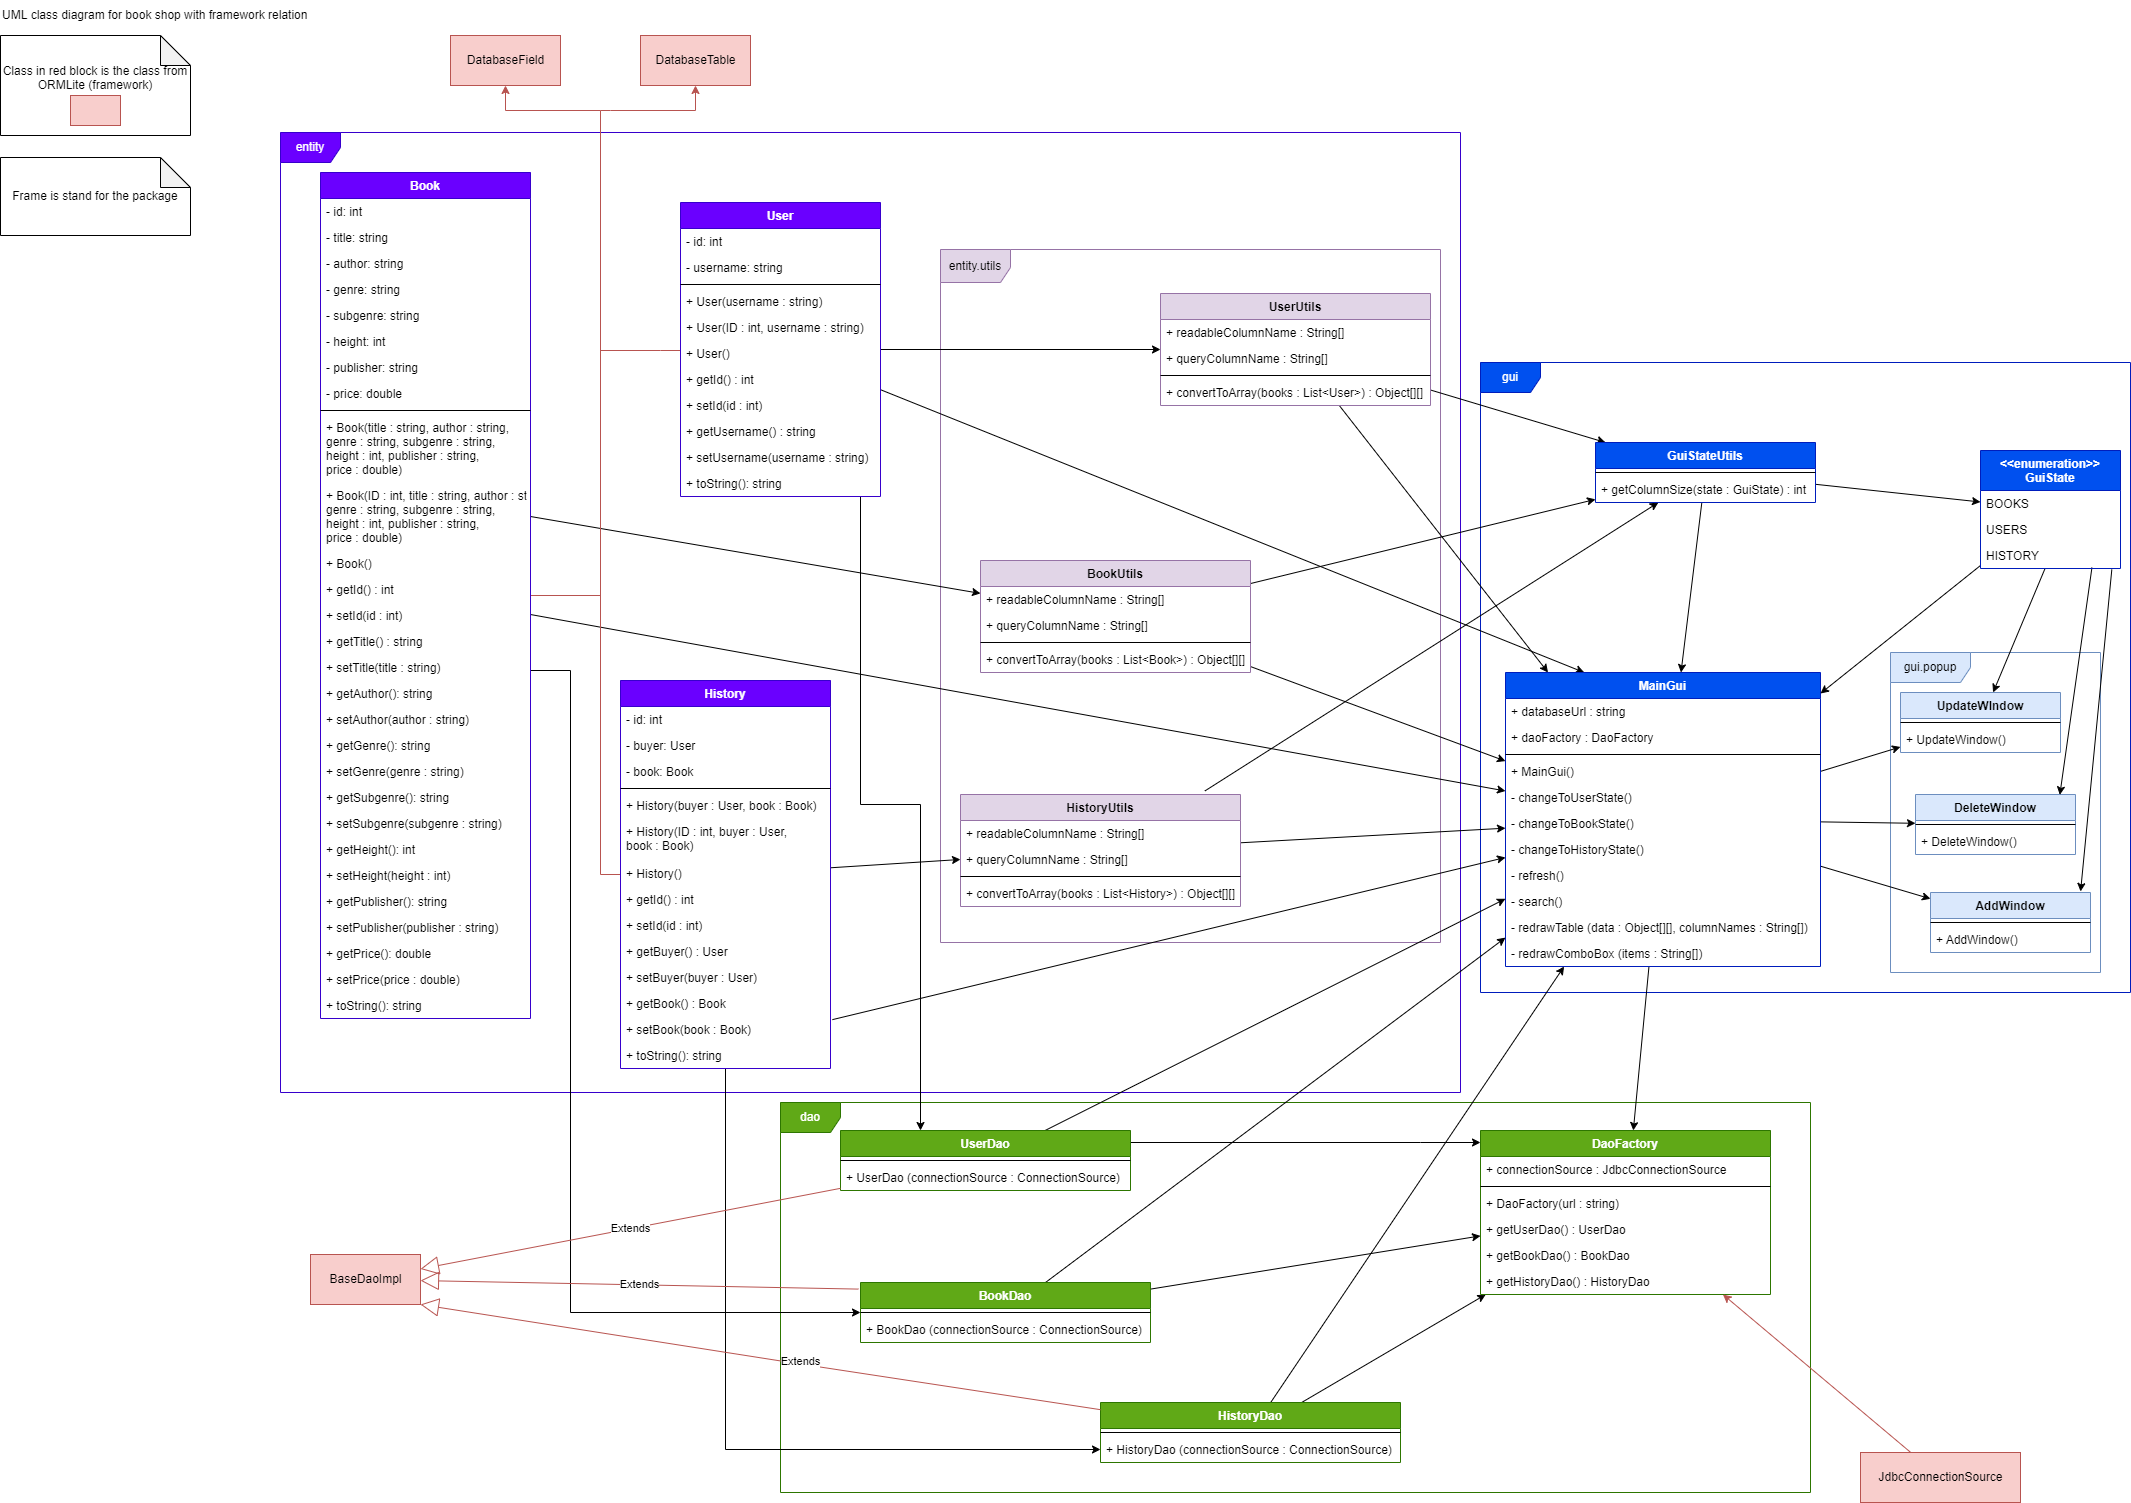
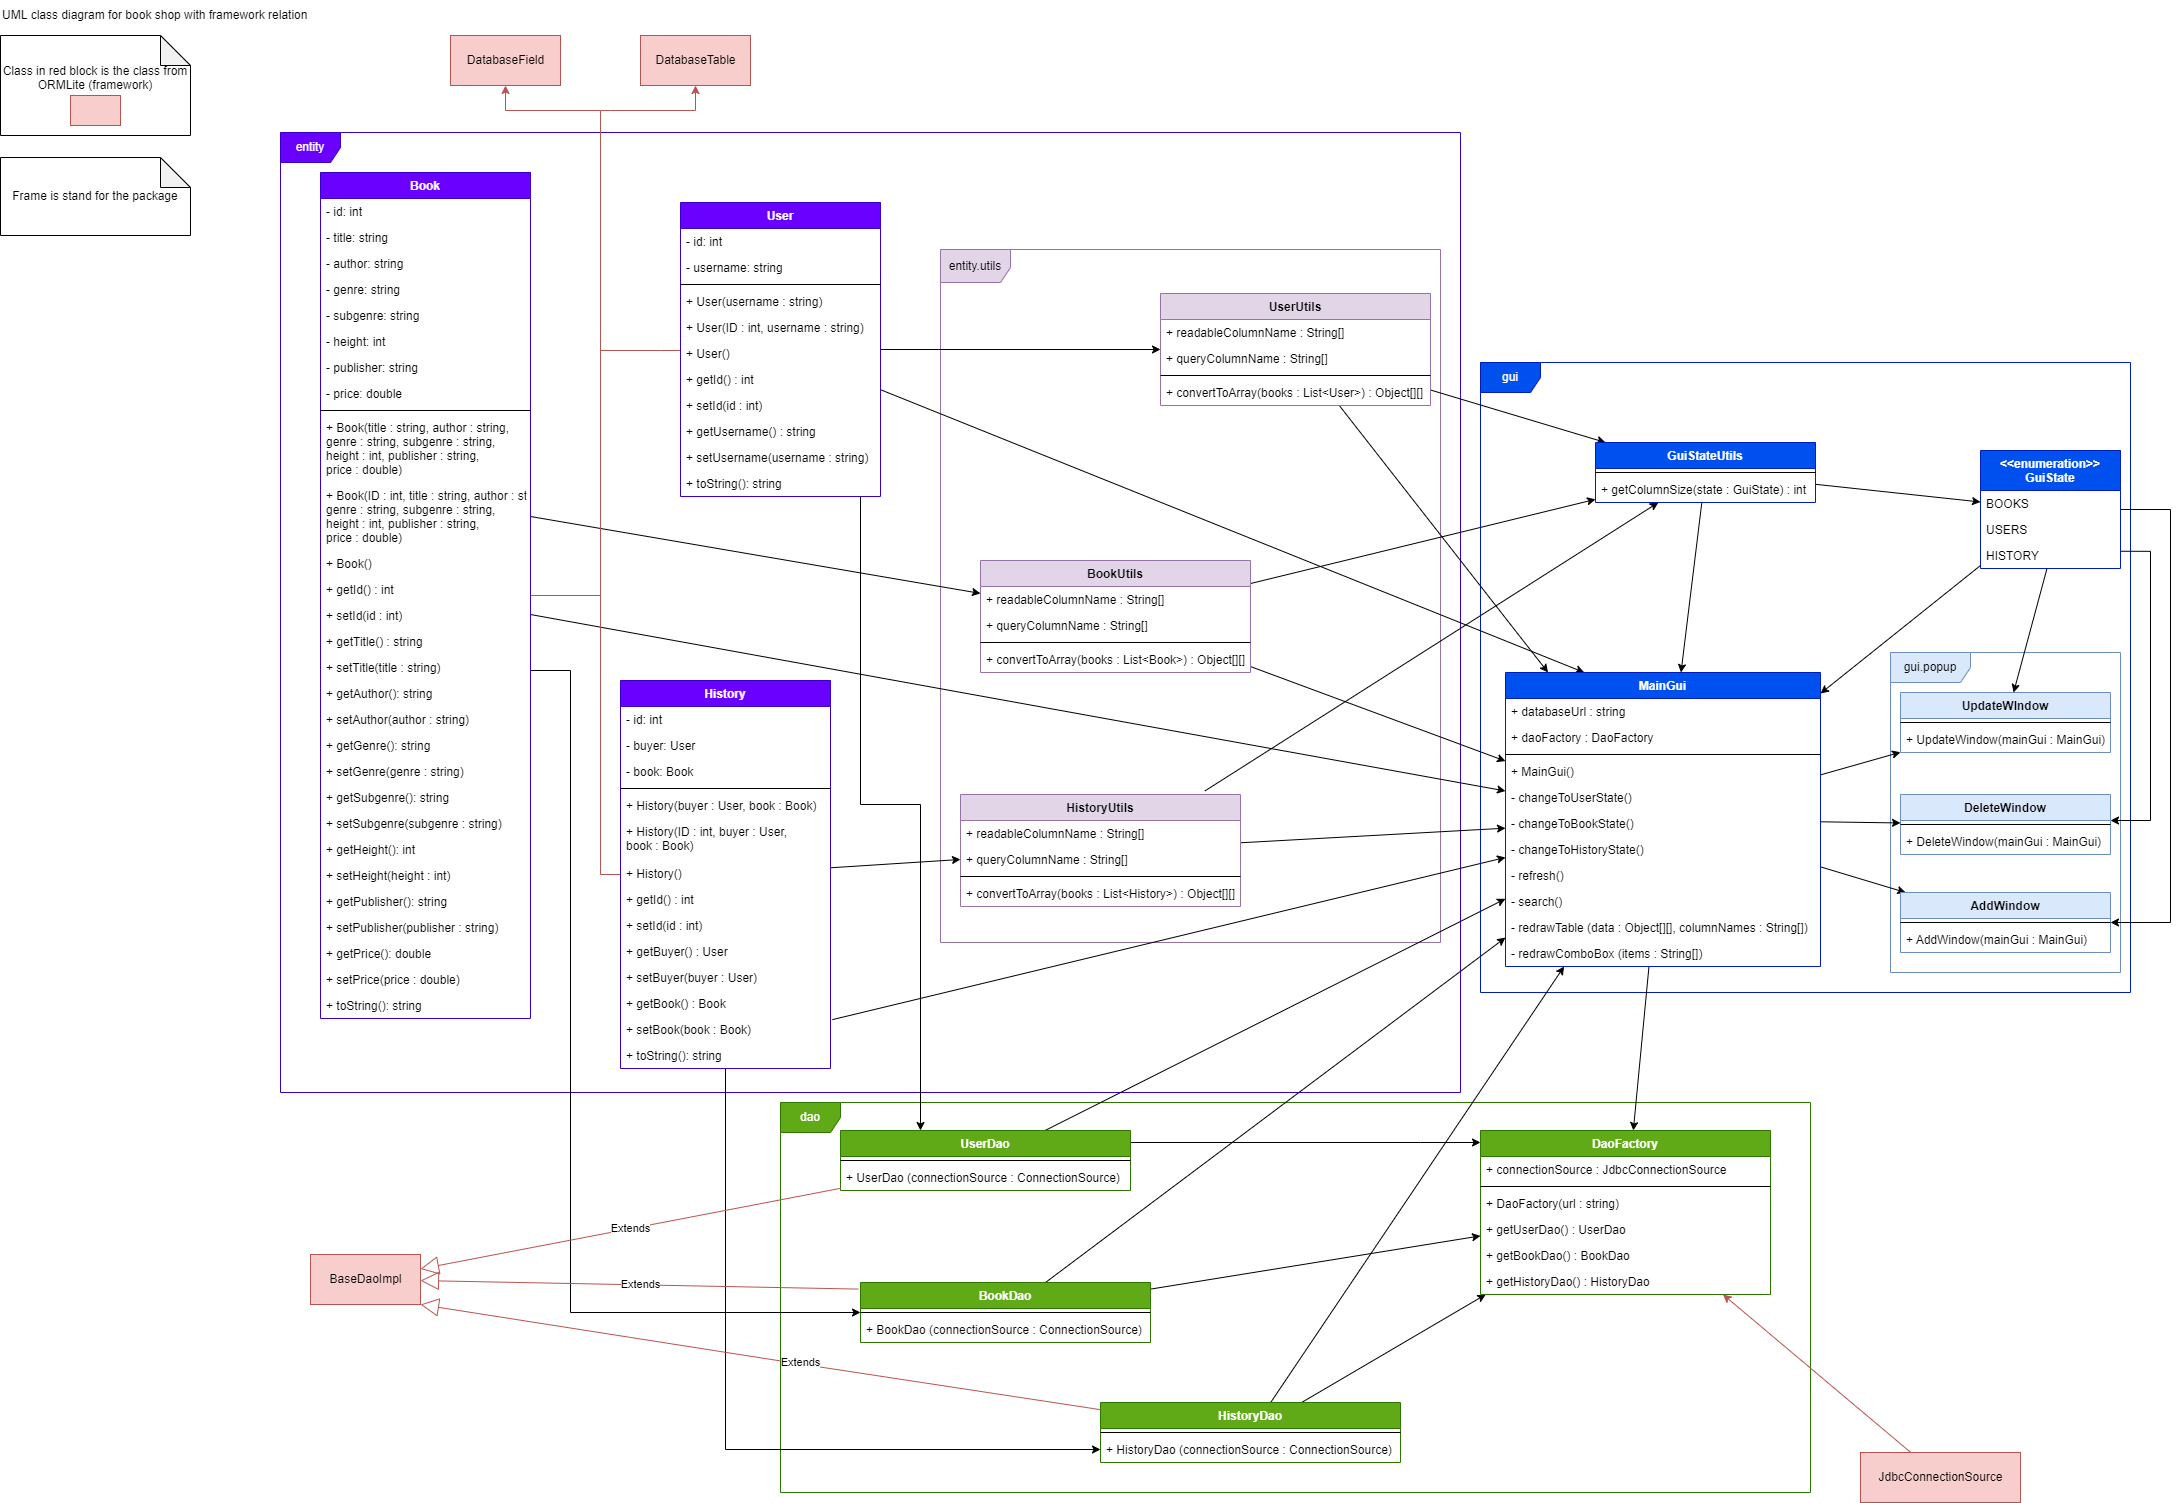
Make GUI auto-refresh on CRUD operation window

diff --git a/src/gui/popup/AddWindow.java b/src/gui/popup/AddWindow.java
@@ -18,7 +18,7 @@ public class AddWindow extends JFrame {
     /**
      * Constructor for the AddWindow.
      */
-    public AddWindow() {
+    public AddWindow(MainGui mainGui) {
         if (MainGui.guiState == GuiState.BOOKS) {
             setTitle("Add Book");
         } else if (MainGui.guiState == GuiState.USERS) {
@@ -58,7 +58,8 @@ public class AddWindow extends JFrame {
             addButton.addActionListener(e -> {
                 try {
                     MainGui.daoFactory.getBookDao().create(new Book(titleTextField.getText(), authorTextField.getText(), genreTextField.getText(), subgenreTextField.getText(), Integer.parseInt(heightTextField.getText()), publisherTextField.getText(), Double.parseDouble(priceTextField.getText())));
-                    JOptionPane.showMessageDialog(this, "Book added successfully\nPlease click on the 'Refresh' button to see the changes");
+                    JOptionPane.showMessageDialog(this, "Book added successfully!");
+                    mainGui.refresh();
                     dispose();
                 } catch (NumberFormatException | SQLException ex) {
                     JOptionPane.showMessageDialog(this, "Error on adding book to database\n" + ex.getMessage(), "Error", JOptionPane.ERROR_MESSAGE);
@@ -72,7 +73,8 @@ public class AddWindow extends JFrame {
                 try {
                     if (!usernameTextField.getText().equals("")) {
                         MainGui.daoFactory.getUserDao().create(new User(usernameTextField.getText()));
-                        JOptionPane.showMessageDialog(this, "User added successfully\nPlease click on the 'Refresh' button to see the changes");
+                        JOptionPane.showMessageDialog(this, "User added successfully!");
+                        mainGui.refresh();
                         dispose();
                     } else {
                         JOptionPane.showMessageDialog(this, "Username cannot be empty", "Error", JOptionPane.ERROR_MESSAGE);
@@ -91,7 +93,8 @@ public class AddWindow extends JFrame {
             addButton.addActionListener(e -> {
                 try {
                     MainGui.daoFactory.getHistoryDao().create(new History(MainGui.daoFactory.getUserDao().queryForId(Integer.parseInt(userIdTextField.getText())), MainGui.daoFactory.getBookDao().queryForId(Integer.parseInt(bookIdTextField.getText()))));
-                    JOptionPane.showMessageDialog(this, "History added successfully\nPlease click on the 'Refresh' button to see the changes");
+                    JOptionPane.showMessageDialog(this, "History added successfully!");
+                    mainGui.refresh();
                     dispose();
                 } catch (NumberFormatException | SQLException | NullPointerException ex) {
                     JOptionPane.showMessageDialog(this, "Error on adding history to database\n" + ex.getMessage(), "Error", JOptionPane.ERROR_MESSAGE);

diff --git a/src/gui/MainGui.java b/src/gui/MainGui.java
@@ -133,12 +133,12 @@ public class MainGui extends JFrame {
         refreshButton.addActionListener(e -> refresh());
         bottomButtonPanel.add(refreshButton);
         addButton = new JButton("Add");
-        addButton.addActionListener(e -> new AddWindow());
+        addButton.addActionListener(e -> new AddWindow(this));
         bottomButtonPanel.add(addButton);
         updateButton = new JButton("Update");
-        updateButton.addActionListener(e -> new UpdateWindow());
+        updateButton.addActionListener(e -> new UpdateWindow(this));
         deleteButton = new JButton("Delete");
-        deleteButton.addActionListener(e -> new DeleteWindow());
+        deleteButton.addActionListener(e -> new DeleteWindow(this));
         bottomButtonPanel.add(addButton);
         bottomButtonPanel.add(updateButton);
         bottomButtonPanel.add(deleteButton);
@@ -207,12 +207,12 @@ public class MainGui extends JFrame {
     private void changeToHistoryState() {
         try {
             guiState = GuiState.HISTORY;
-            redrawTable(HistoryUtils.convertToArray(daoFactory.getHistoryDao().queryForAll()), HistoryUtils.readableColumnName);
+            redrawTable(HistoryUtils.convertToArray(daoFactory.getHistoryDao().queryForAll(), daoFactory), HistoryUtils.readableColumnName);
             redrawComboBox(HistoryUtils.readableColumnName);
             searchTextField.setText("");
             updateButton.setEnabled(false);
             deleteButton.setEnabled(false);
-        } catch (SQLException e) {
+        } catch (SQLException | RuntimeException e) {
             JOptionPane.showMessageDialog(this, "Error on database query\n" + e.getMessage(), "Error", JOptionPane.ERROR_MESSAGE);
         }
     }
@@ -238,8 +238,8 @@ public class MainGui extends JFrame {
         } else if (guiState == GuiState.HISTORY) {
             try {
                 List<History> data = daoFactory.getHistoryDao().queryForEq(HistoryUtils.queryColumnName[searchComboBox.getSelectedIndex()], searchTextField.getText());
-                redrawTable(HistoryUtils.convertToArray(data), HistoryUtils.readableColumnName);
-            } catch (SQLException e) {
+                redrawTable(HistoryUtils.convertToArray(data, daoFactory), HistoryUtils.readableColumnName);
+            } catch (SQLException | RuntimeException e) {
                 JOptionPane.showMessageDialog(this, "Error on database query\n" + e.getMessage(), "Error", JOptionPane.ERROR_MESSAGE);
             }
         }
@@ -248,7 +248,7 @@ public class MainGui extends JFrame {
     /**
      * Refresh the table
      */
-    private void refresh() {
+    public void refresh() {
         if (guiState == GuiState.BOOKS) {
             changeToBookState();
         } else if (guiState == GuiState.USERS) {

diff --git a/src/gui/popup/DeleteWindow.java b/src/gui/popup/DeleteWindow.java
@@ -21,7 +21,7 @@ public class DeleteWindow extends JFrame {
     /**
      * Constructor for DeleteWindow.
      */
-    public DeleteWindow() {
+    public DeleteWindow(MainGui mainGui) {
         if (MainGui.guiState == GuiState.BOOKS) {
             setTitle("Delete Book");
         } else if (MainGui.guiState == GuiState.USERS) {
@@ -73,7 +73,8 @@ public class DeleteWindow extends JFrame {
             deleteButton.addActionListener(e -> {
                 try {
                     MainGui.daoFactory.getBookDao().delete(new Book(Integer.parseInt(bookIdTextField.getText()), titleTextField.getText(), authorTextField.getText(), genreTextField.getText(), subgenreTextField.getText(), Integer.parseInt(heightTextField.getText()), publisherTextField.getText(), Double.parseDouble(priceTextField.getText())));
-                    JOptionPane.showMessageDialog(this, "Book deleted successfully\nPlease click on the 'Refresh' button to see the changes");
+                    JOptionPane.showMessageDialog(this, "Book deleted successfully!");
+                    mainGui.refresh();
                     dispose();
                 } catch (NumberFormatException | SQLException ex) {
                     JOptionPane.showMessageDialog(this, "Error on deleting book from database\n" + ex.getMessage(), "Error", JOptionPane.ERROR_MESSAGE);
@@ -212,7 +213,8 @@ public class DeleteWindow extends JFrame {
             deleteButton.addActionListener(e -> {
                 try {
                     MainGui.daoFactory.getUserDao().delete(new User(Integer.parseInt(userIdTextField.getText()),usernameTextField.getText()));
-                    JOptionPane.showMessageDialog(this, "User deleted successfully\nPlease click on the 'Refresh' button to see the changes");
+                    JOptionPane.showMessageDialog(this, "User deleted successfully!");
+                    mainGui.refresh();
                     dispose();
                 } catch (SQLException ex) {
                     JOptionPane.showMessageDialog(this, "Error on deleting user from database\n" + ex.getMessage(), "Error", JOptionPane.ERROR_MESSAGE);

diff --git a/src/gui/popup/UpdateWindow.java b/src/gui/popup/UpdateWindow.java
@@ -21,7 +21,7 @@ public class UpdateWindow extends JFrame {
     /**
      * Constructor for UpdateWindow.
      */
-    public UpdateWindow() {
+    public UpdateWindow(MainGui mainGui) {
         if (MainGui.guiState == GuiState.BOOKS) {
             setTitle("Update Book");
         } else if (MainGui.guiState == GuiState.USERS) {
@@ -62,7 +62,8 @@ public class UpdateWindow extends JFrame {
             updateButton.addActionListener(e -> {
                 try {
                     MainGui.daoFactory.getBookDao().update(new Book(Integer.parseInt(bookIdTextField.getText()), titleTextField.getText(), authorTextField.getText(), genreTextField.getText(), subgenreTextField.getText(), Integer.parseInt(heightTextField.getText()), publisherTextField.getText(), Double.parseDouble(priceTextField.getText())));
-                    JOptionPane.showMessageDialog(this, "Book updated successfully\nPlease click on the 'Refresh' button to see the changes");
+                    JOptionPane.showMessageDialog(this, "Book updated successfully!");
+                    mainGui.refresh();
                     dispose();
                 } catch (NumberFormatException | SQLException ex) {
                     JOptionPane.showMessageDialog(this, "Error on updating book to database\n" + ex.getMessage(), "Error", JOptionPane.ERROR_MESSAGE);
@@ -201,7 +202,8 @@ public class UpdateWindow extends JFrame {
                 try {
                     if (!usernameTextField.getText().equals("")) {
                         MainGui.daoFactory.getUserDao().update(new User(Integer.parseInt(userIdTextField.getText()),usernameTextField.getText()));
-                        JOptionPane.showMessageDialog(this, "User updated successfully\nPlease click on the 'Refresh' button to see the changes");
+                        JOptionPane.showMessageDialog(this, "User updated successfully!");
+                        mainGui.refresh();
                         dispose();
                     } else {
                         JOptionPane.showMessageDialog(this, "Username cannot be empty", "Error", JOptionPane.ERROR_MESSAGE);

diff --git a/src/entity/utils/HistoryUtils.java b/src/entity/utils/HistoryUtils.java
@@ -1,7 +1,9 @@
 package entity.utils;
 
+import dao.DaoFactory;
 import entity.History;
 
+import java.sql.SQLException;
 import java.util.List;
 
 /**
@@ -13,7 +15,7 @@ public class HistoryUtils {
     /**
      * Column name of the history table that can be used in UI.
      */
-    public static String[] readableColumnName = {"ID", "Buyer ID", "Book ID"};
+    public static String[] readableColumnName = {"ID", "Buyer", "Book"};
 
     /**
      * Real column of the history table that can be used in database.
@@ -25,11 +27,15 @@ public class HistoryUtils {
      * @param histories List of History that may be obtained from database query.
      * @return Object[][] that can be used in table UI.
      */
-    public static Object[][] convertToArray(List<History> histories) {
+    public static Object[][] convertToArray(List<History> histories, DaoFactory daoFactory) {
         Object[][] data = new Object[histories.size()][];
         for (int i = 0; i < histories.size(); i++) {
             History history = histories.get(i);
-            data[i] = new Object[]{history.getId(), history.getBuyer().getId(), history.getBook().getId()};
+            try {
+                data[i] = new Object[]{history.getId(), daoFactory.getUserDao().queryForId(history.getBuyer().getId()), daoFactory.getBookDao().queryForId(history.getBook().getId())};
+            } catch (SQLException e) {
+                throw new RuntimeException(e);
+            }
         }
         return data;
     }
